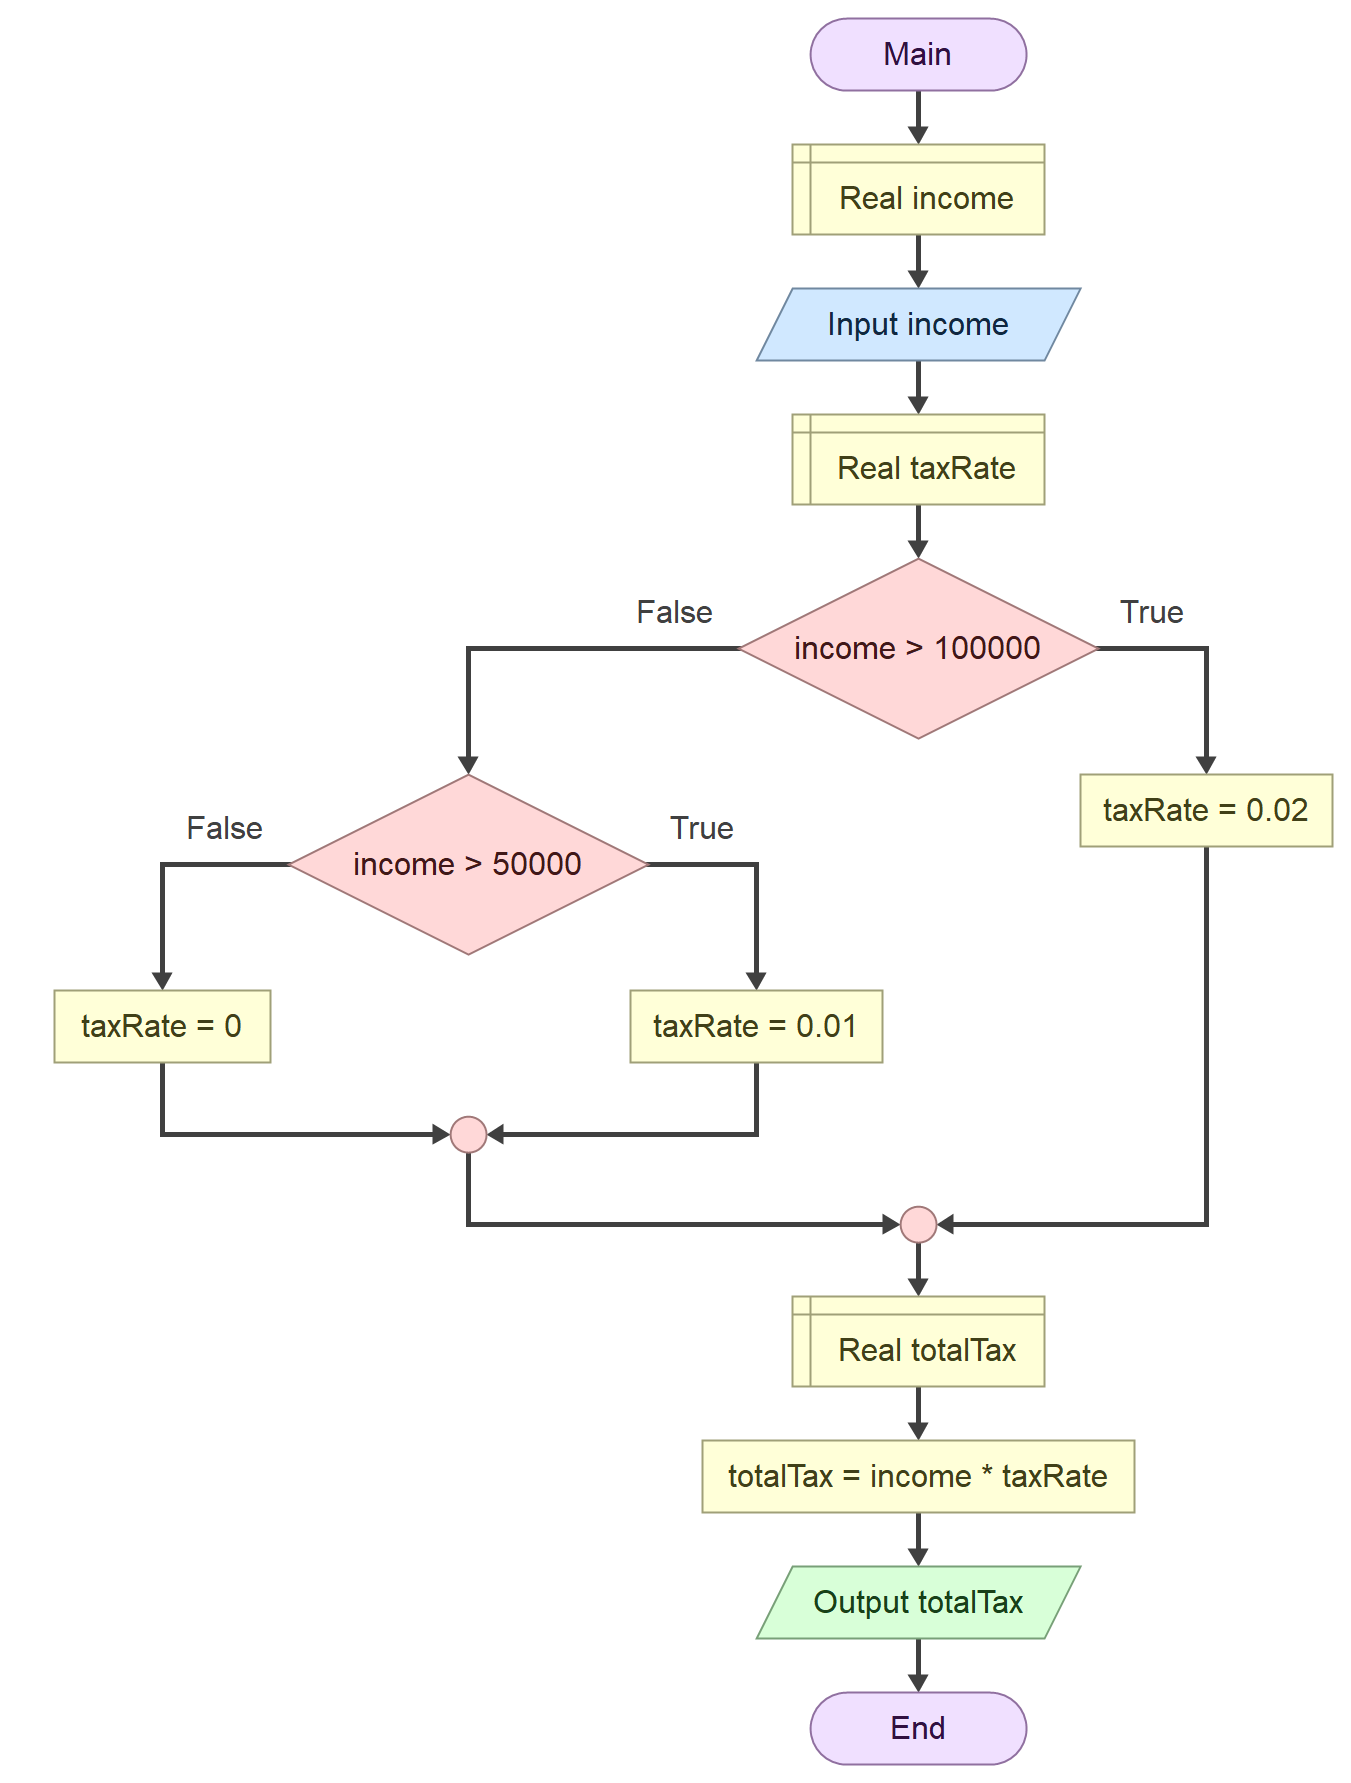
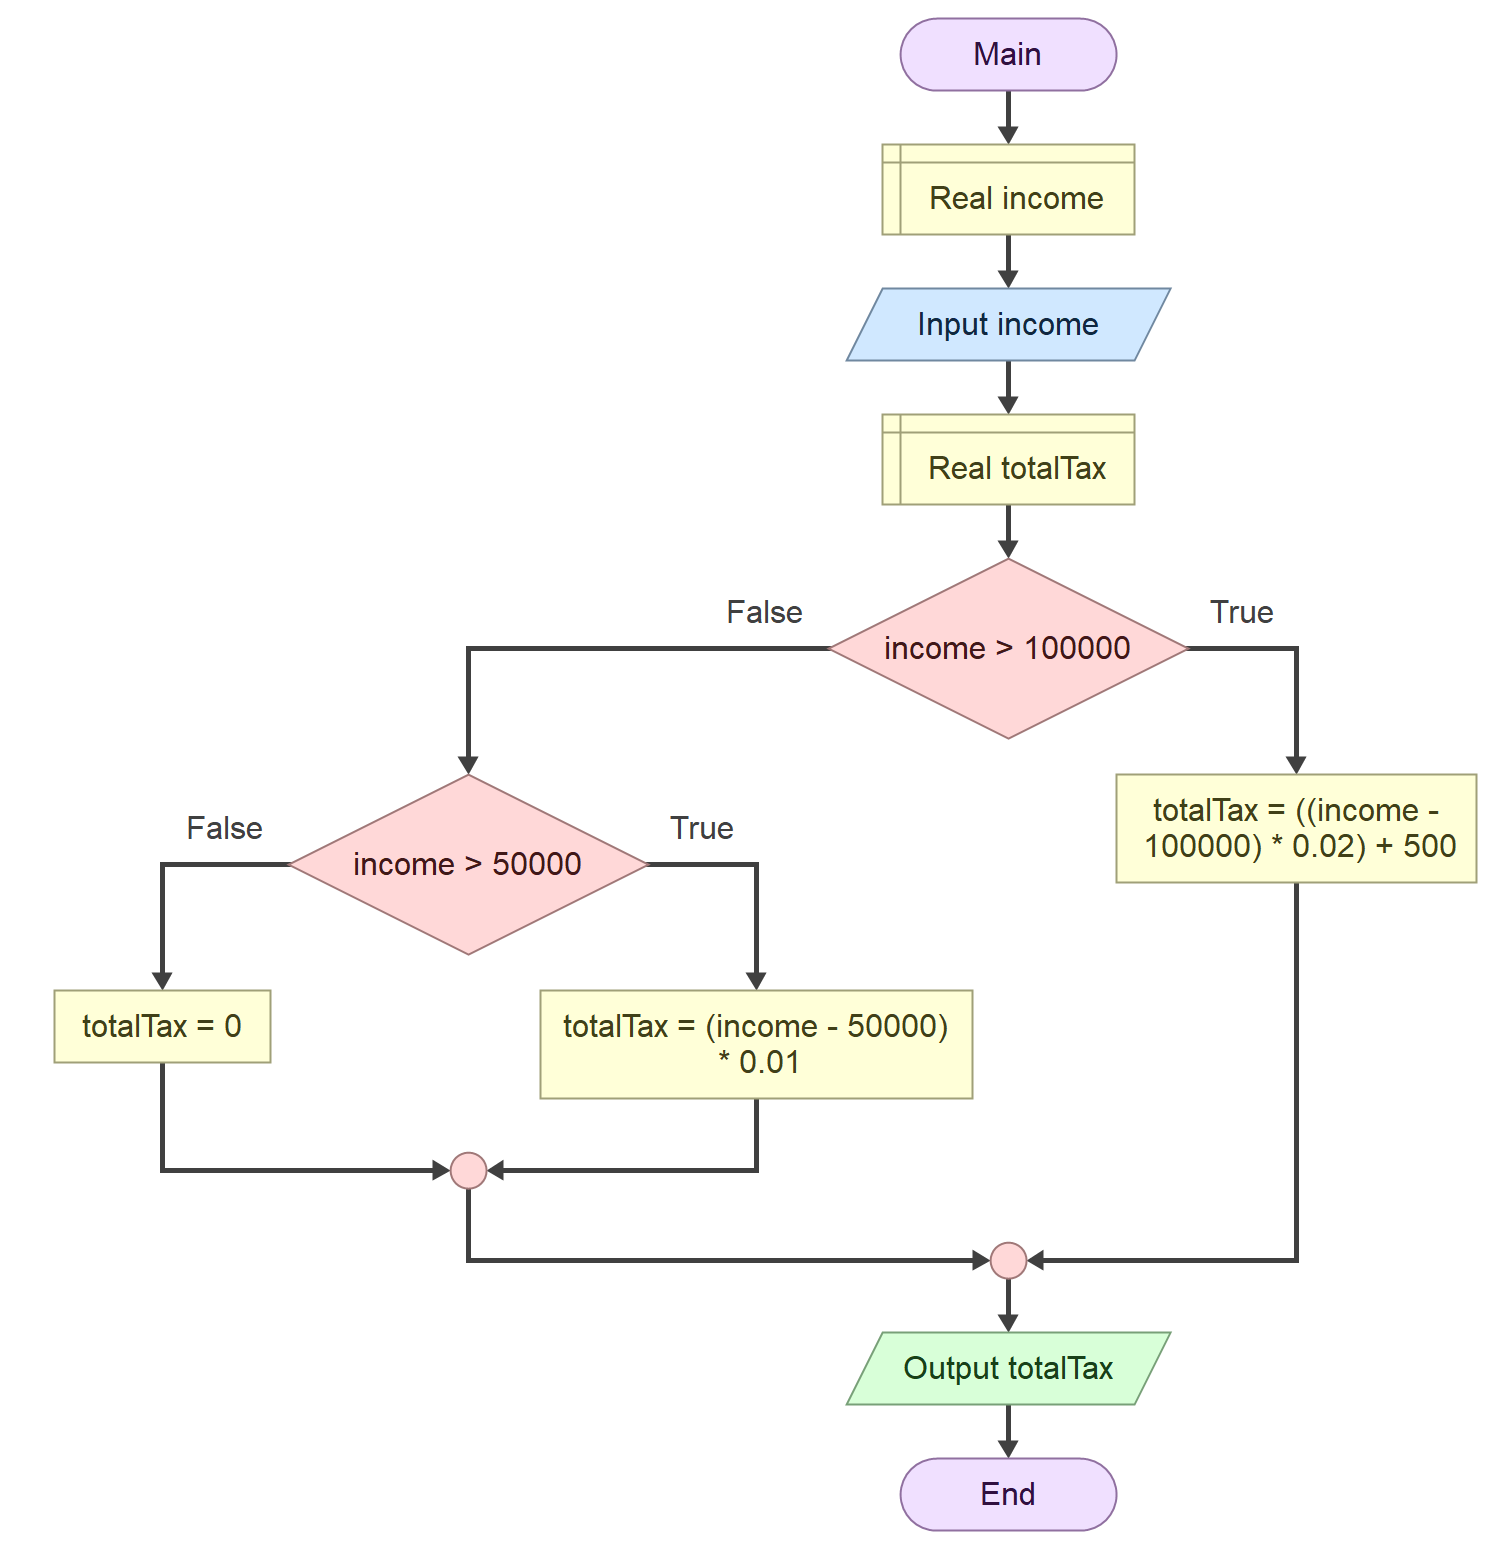
Test exercise 2

Changed region(s): [[0.0311, 0.0, 0.9948, 0.9916]]

diff --git a/labs/lab04/exercise2/lab-4-2.py b/labs/lab04/exercise2/lab-4-2.py
@@ -1,10 +1,9 @@
 income = float(input())
 if income > 100000:
-    taxRate = 0.02
+    totalTax = ((income - 100000) * 0.02) + 500
 else:
     if income > 50000:
-        taxRate = 0.01
+        totalTax = (income - 50000) * 0.01
     else:
-        taxRate = 0
-totalTax = income * taxRate
+        totalTax = 0
 print(totalTax)